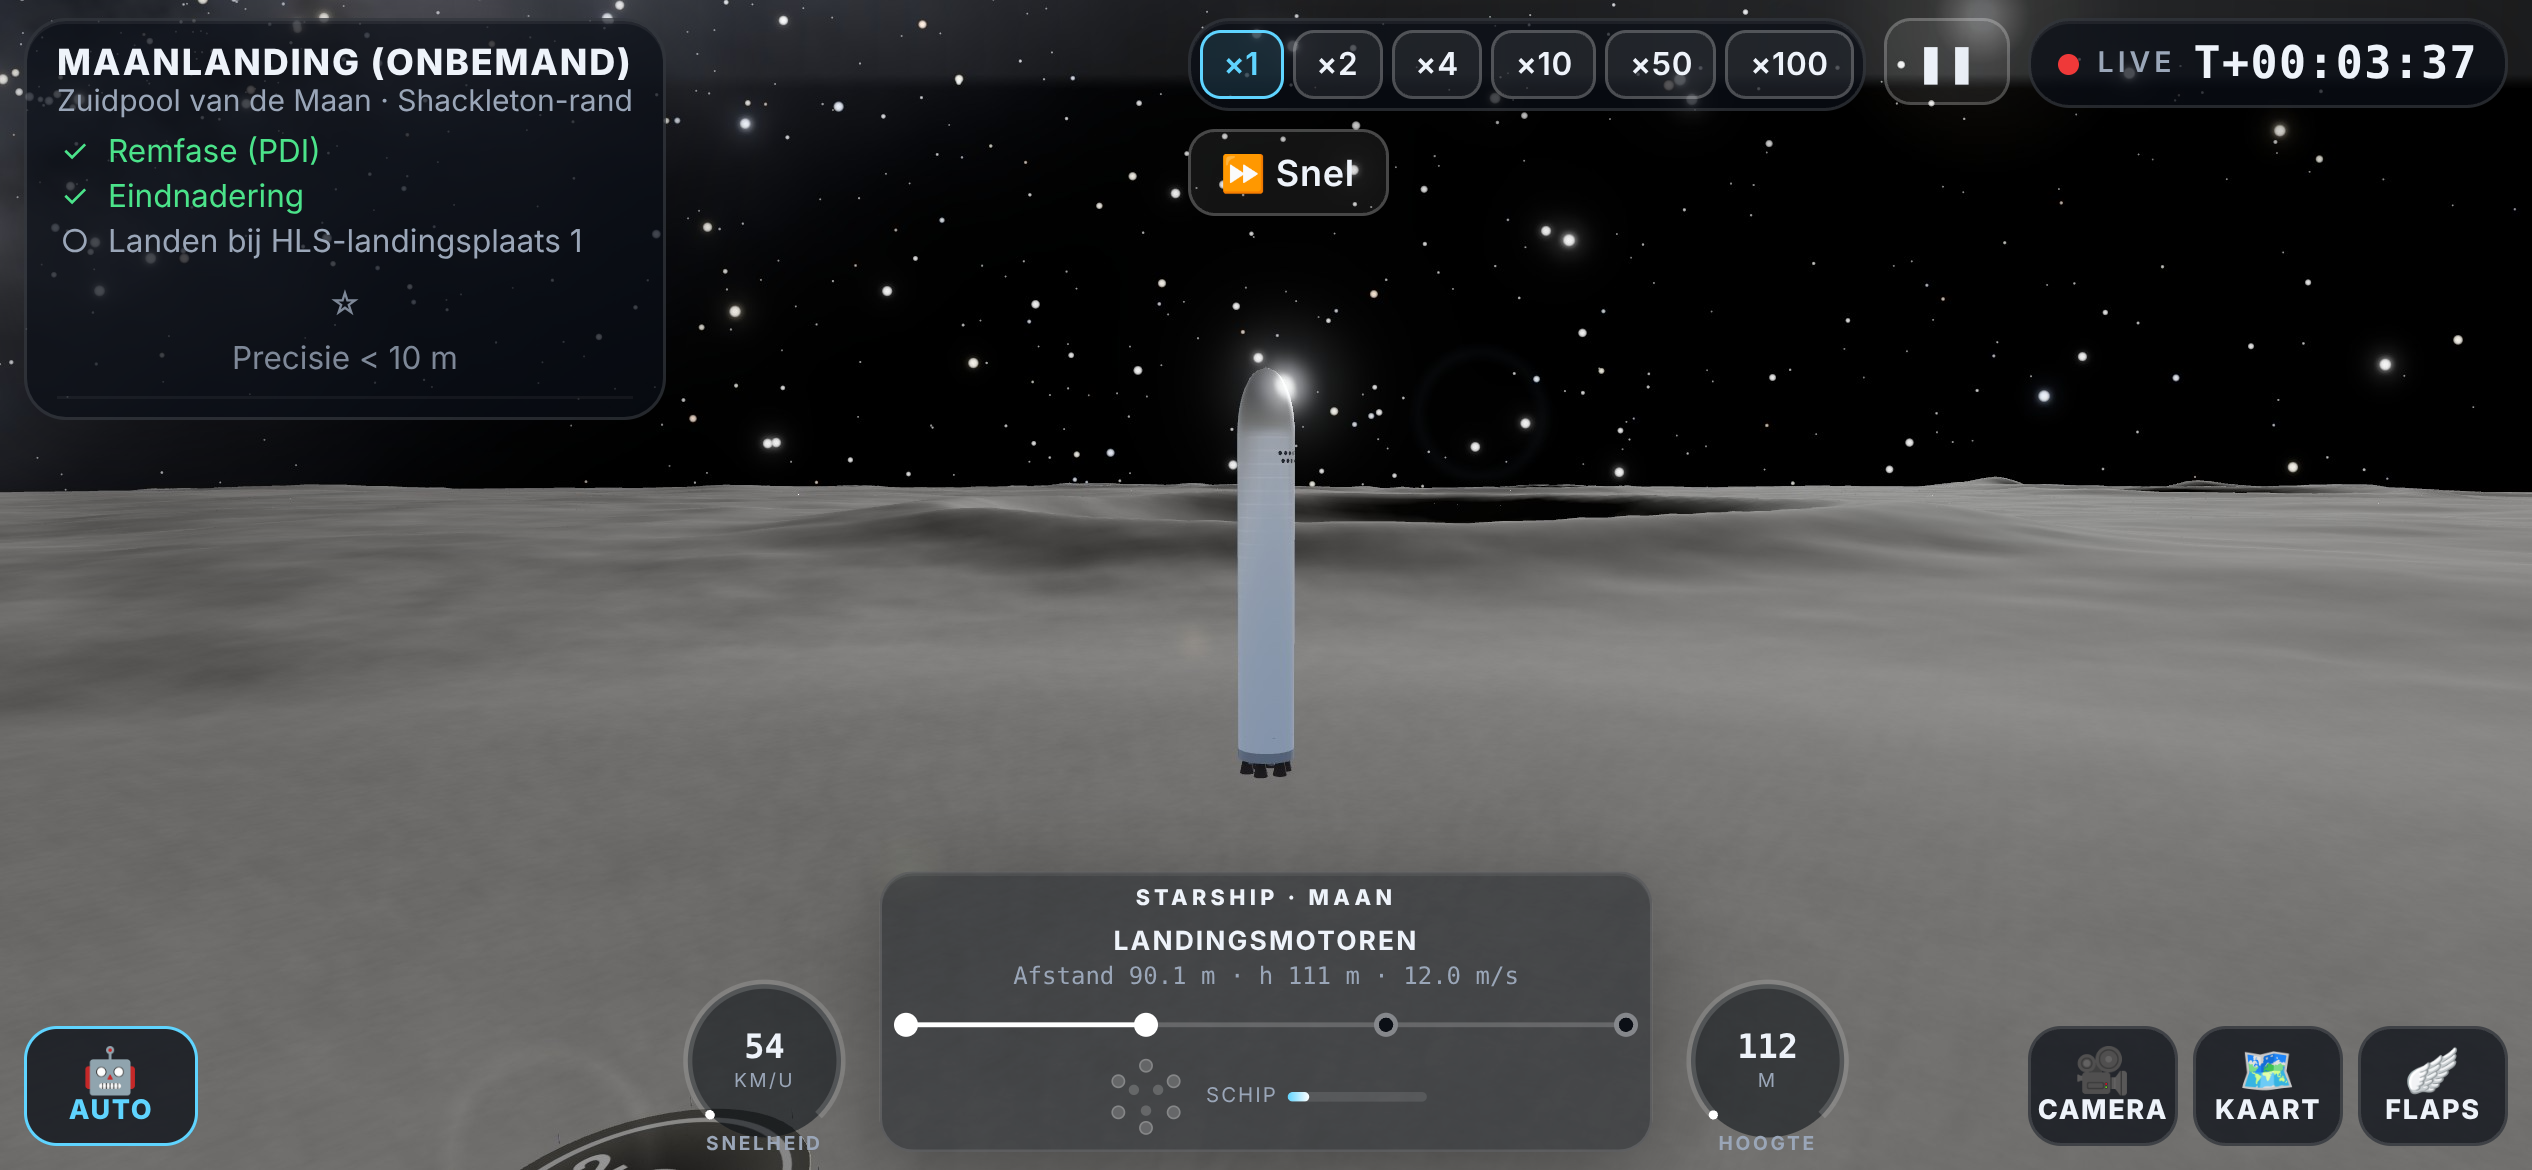
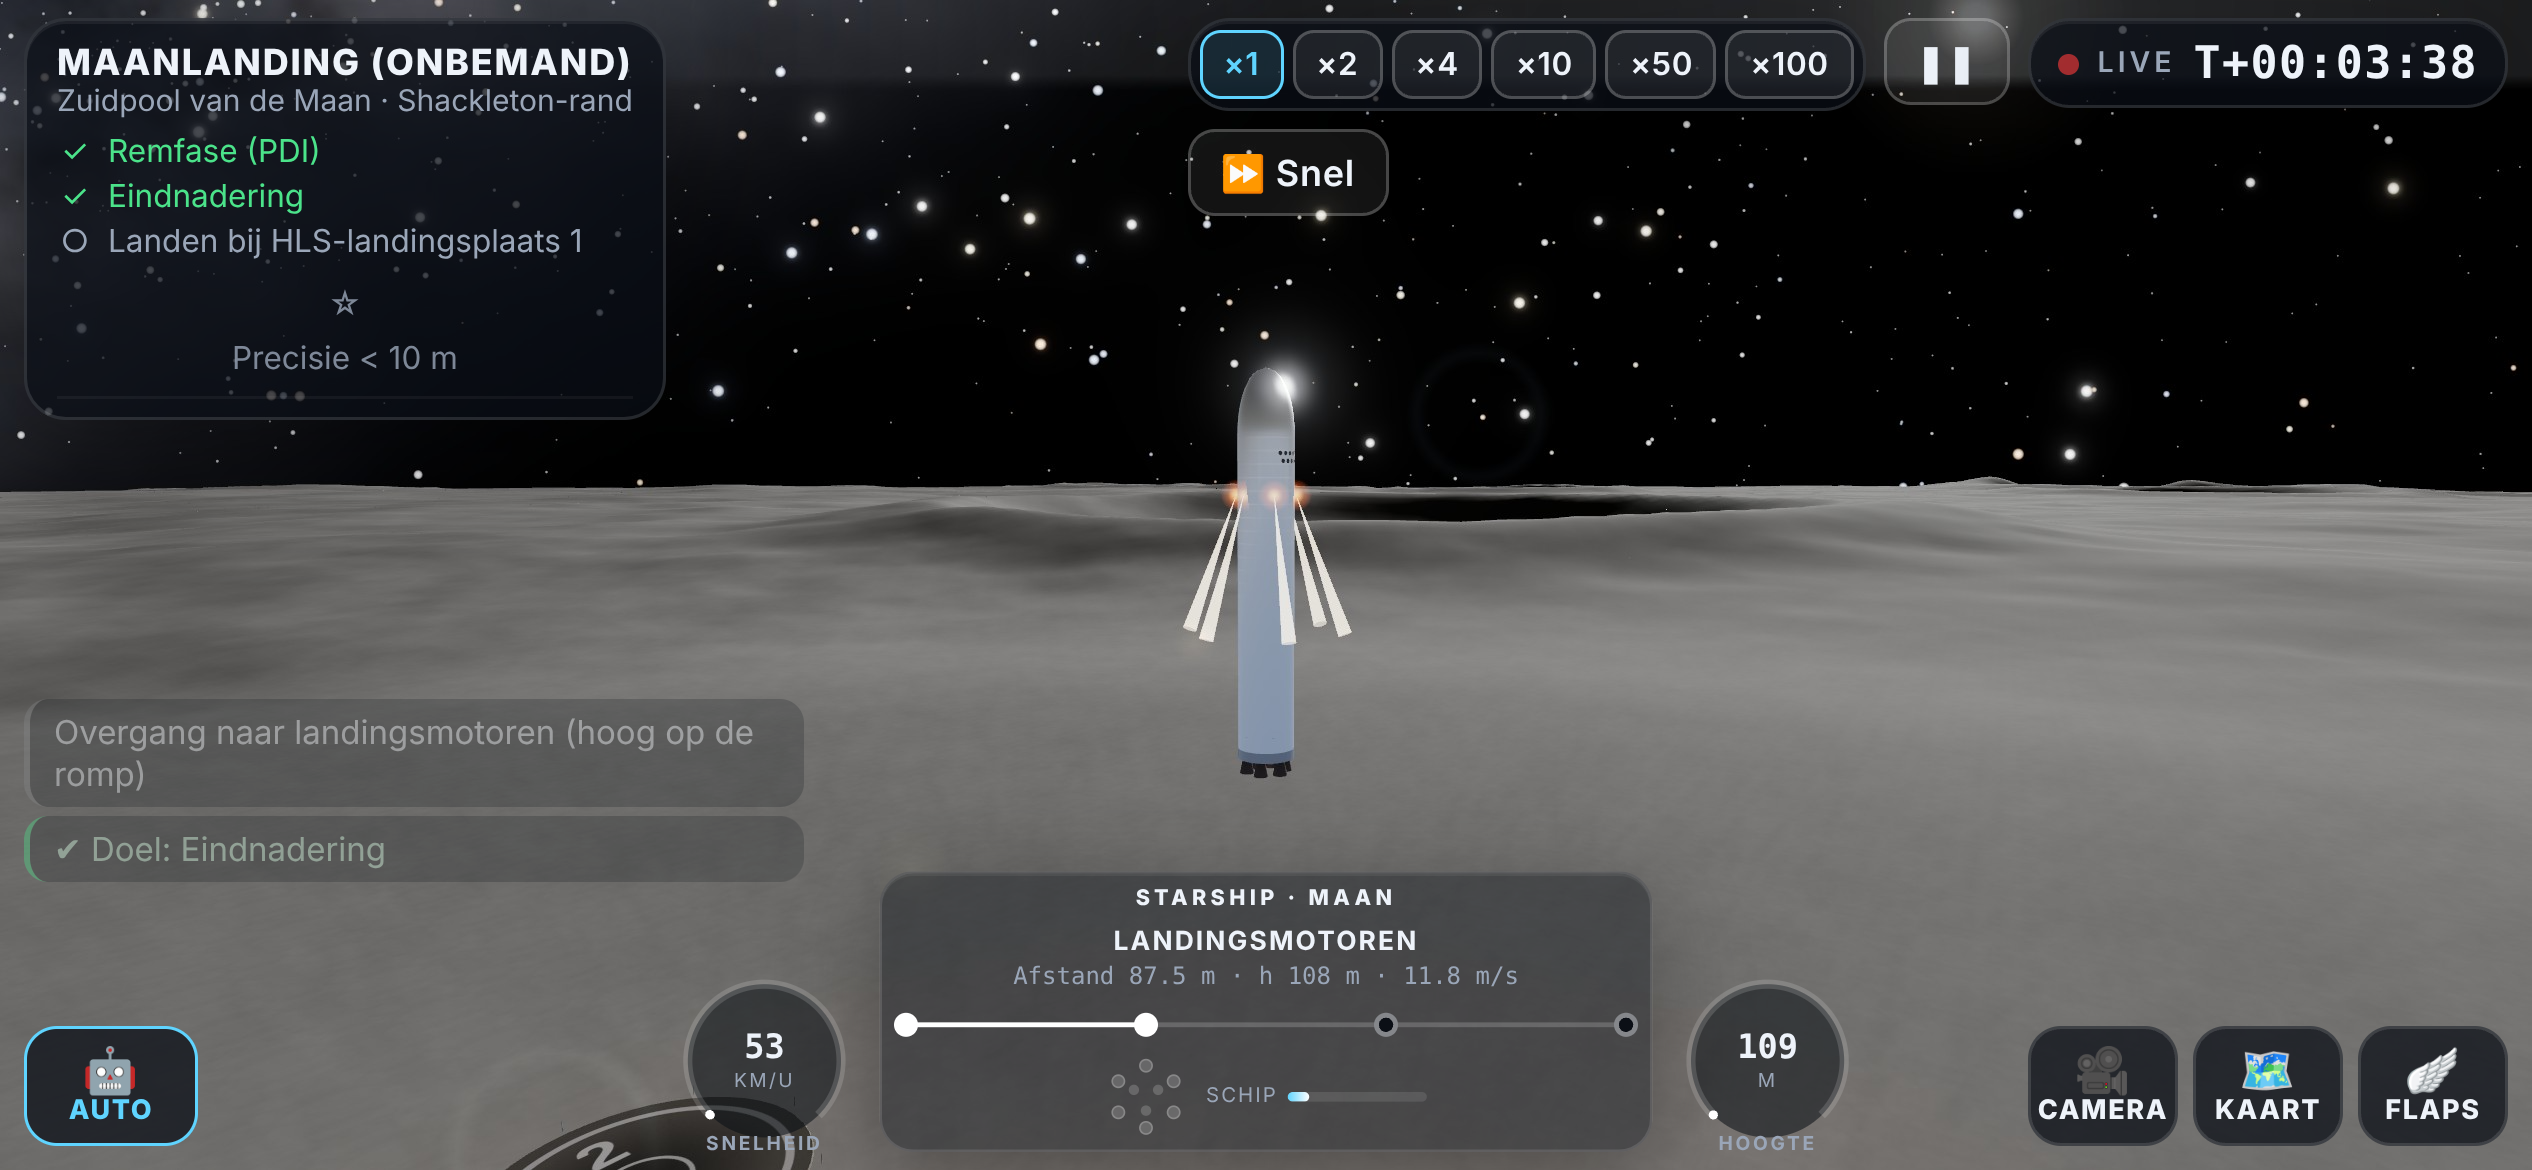
HLS landing thruster jets, FPS counter in menus, safe-mode reset

diff --git a/src/render/view.ts b/src/render/view.ts
@@ -181,6 +181,14 @@ export class View {
     const vc = new THREE.Mesh(new THREE.ConeGeometry(R * 2.2, L * 0.3, 32, 1, true), new THREE.MeshBasicMaterial({ color: 0xffffff, transparent: true, opacity: 0, depthWrite: false, side: THREE.DoubleSide, fog: false }));
     vc.position.y = L * 0.55; vc.rotation.x = Math.PI; g.add(vc); vv.vapor = vc;
     const gl = new THREE.PointLight(0xffaa66, 0, 600, 1.6); gl.position.y = -10; g.add(gl); vv.glow = gl;
+    // HLS-landingsthrusters (hoog op de romp)
+    if (v.stages.some((st) => st.spec.name.toLowerCase().includes('hls') || (st.spec.kind === 'ship' && !st.spec.flaps && st.spec.heatShield === 0 && st.spec.legs && st.spec.length > 40))) {
+      const jets = new THREE.Group(); const jg = new THREE.ConeGeometry(1.1, 14, 16, 1, true); jg.translate(0, -7, 0);
+      const jm = new THREE.MeshBasicMaterial({ color: 0xfff1d8, transparent: true, opacity: 0.55, blending: THREE.AdditiveBlending, depthWrite: false, side: THREE.DoubleSide, fog: false });
+      for (let i = 0; i < 6; i++) { const a = i / 6 * Math.PI * 2; const j = new THREE.Mesh(jg, jm); j.position.set(Math.cos(a) * (R + 0.4), L * 0.68, Math.sin(a) * (R + 0.4)); j.rotation.set(Math.sin(a) * -0.35, 0, Math.cos(a) * 0.35); jets.add(j);
+        const sp = new THREE.Sprite(new THREE.SpriteMaterial({ map: this.glowTex, color: 0xffd9a0, blending: THREE.AdditiveBlending, transparent: true, depthWrite: false, fog: false })); sp.scale.setScalar(5); sp.position.copy(j.position); jets.add(sp); }
+      jets.visible = false; g.add(jets); (vv as any).hlsJets = jets;
+    }
     const mk = new THREE.Sprite(new THREE.SpriteMaterial({ color: v.role === 'booster' ? 0x66ccff : 0xffcc55, depthTest: false, sizeAttenuation: false, transparent: true }));
     mk.scale.set(0.02, 0.02, 1); mk.visible = false; mk.renderOrder = 50; g.add(mk); vv.marker = mk;
     g.traverse((o) => { if ((o as THREE.Mesh).isMesh && !(o as any).material?.transparent && (o as any).material?.type !== 'ShaderMaterial') { o.castShadow = true; o.receiveShadow = true; } });
@@ -590,6 +598,8 @@ export class View {
     (vv.vapor.material as THREE.MeshBasicMaterial).opacity += (vap - (vv.vapor.material as THREE.MeshBasicMaterial).opacity) * Math.min(1, dt * 4);
     vv.vapor.visible = (vv.vapor.material as THREE.MeshBasicMaterial).opacity > 0.01 && !map;
     // licht van de vlam
+    const hj = (vv as any).hlsJets as THREE.Group | undefined;
+    if (hj) { const lt = (v.ap as any)?.landThrust || 0; const on = lt > 0 && (v.ap as any)?.phase === 'Landingsmotoren' && !map; hj.visible = on; if (on) { const k = 0.7 + 0.3 * Math.sin(this.time * 40); hj.children.forEach((c, i) => { if (i % 2 === 0) c.scale.set(1, k * (0.8 + Math.min(1, lt / 1.2e6)), 1); }); flameTot += 2; } }
     vv.glow.intensity = flameTot > 0 ? Math.min(2.5e4, flameTot * 900) * (1 - vacK * 0.8) : 0;
     // rook en stoom
     if (flameTot > 0 && !map) this.emitExhaust(v, flameTot, vacK, dt);

diff --git a/src/app.ts b/src/app.ts
@@ -22,7 +22,7 @@ export class App {
   g: GameState | null = null;
   backdrop: World | null = null; backdropDesign = '';
   raf = 0; last = 0; inFlight = false;
-  screenEl: HTMLElement | null = null;
+  screenEl: HTMLElement | null = null; fpsEl: HTMLElement | null = null;
   constructor(view: View) {
     this.view = view;
     this.ui = document.getElementById('ui')!;
@@ -62,6 +62,7 @@ export class App {
     const dt = Math.min(0.1, (now - this.last) / 1000); this.last = now;
     if (this.backdrop && this.view.world === this.backdrop) { this.backdrop.t += dt * 2; this.backdrop.updateFrames(); for (const v of this.backdrop.vehicles) this.backdrop.applyAnchor(v); }
     this.view.render(dt);
+    if (settings.fps) { if (!this.fpsEl) { this.fpsEl = h('div', 'fps', ''); document.body.append(this.fpsEl); } this.fpsEl.style.display = ''; this.fpsEl.textContent = this.view.fps.toFixed(0) + ' fps'; } else if (this.fpsEl) this.fpsEl.style.display = 'none';
   }
   // ---------- schermen ----------
   setScreen(el: HTMLElement) {
@@ -76,7 +77,7 @@ export class App {
 
   // ---------- vlucht ----------
   fly(setup: FlightSetup, ctx: FlightCtx, after: (r: FlightResult, rw: Reward) => void, restart?: () => void) {
-    this.stopLoop();
+    this.stopLoop(); if (this.fpsEl) this.fpsEl.style.display = 'none';
     this.screenEl?.remove(); this.screenEl = null;
     this.inFlight = true;
     audio.setMusic(false);

diff --git a/src/ui/menu.ts b/src/ui/menu.ts
@@ -154,6 +154,7 @@ export function settingsModal(onChange?: () => void) {
   };
   body.append(
     h('div', 'pill acc', { style: { marginBottom: '6px' } } as any, 'Grafiek: ULTRA — altijd maximale kwaliteit'),
+    localStorage.getItem('ss_gfx_safe') === '1' ? row('Veilige grafische modus actief (na crash)', btn('Ultra opnieuw', () => { localStorage.removeItem('ss_gfx_safe'); location.reload(); }, 'small primary')) : null,
     row('FPS-teller', toggle('fps'), 'Toont beelden per seconde tijdens het spel'),
     row('Geluidseffecten', slider('sound', 0, 1)),
     row('Muziek', slider('music', 0, 1)),
